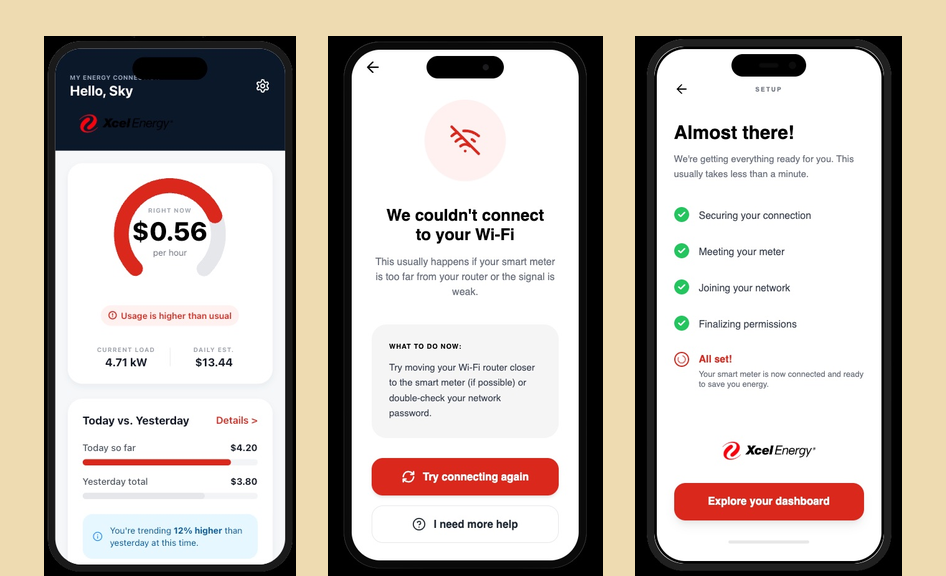
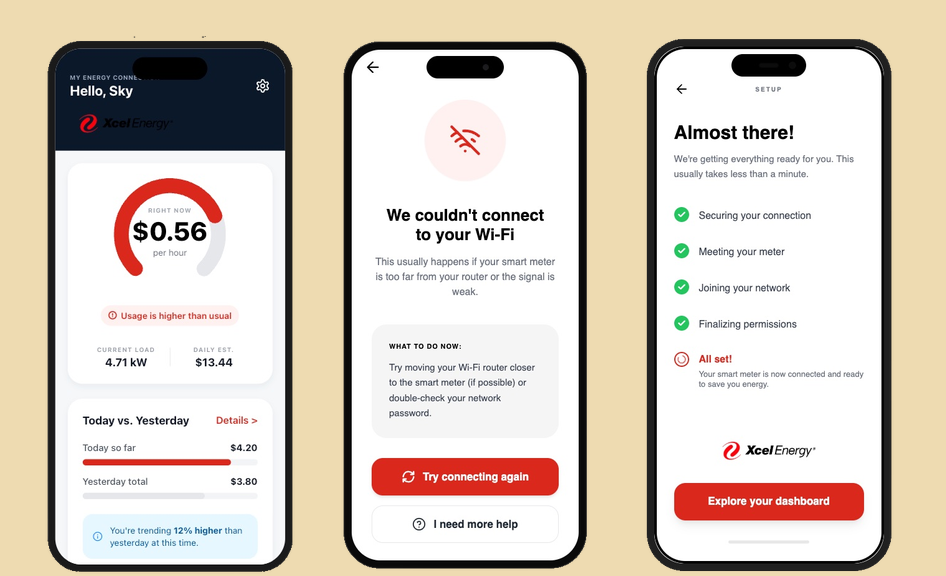
update xcel card hero image

Changed region(s): [[0.0307, 0.0625, 0.981, 1.0]]

diff --git a/xcel-energy.html b/xcel-energy.html
@@ -11,6 +11,8 @@
 <script defer src="/_vercel/insights/script.js"></script>
 <link rel="preconnect" href="https://api.fontshare.com" crossorigin>
 <link href="https://api.fontshare.com/v2/css?f[]=switzer@300&f[]=gambarino@400&display=swap" rel="stylesheet">
+<link rel="stylesheet" href="/editorial-theme.css">
+<link rel="stylesheet" href="/responsive.css">
 <style>
 *,*::before,*::after{box-sizing:border-box;margin:0;padding:0}
 :root{
@@ -83,6 +85,7 @@ body{line-height:1.6;overflow-x:hidden}
   border:none;
   border-radius:0;
   box-shadow:none;
+  background:var(--bg-page);
 }
 
 /* TWO-COLUMN ROWS */
@@ -124,6 +127,7 @@ h2.xcel-section-label{
   border:none;
   border-radius:0;
   box-shadow:none;
+  background:var(--bg-page);
 }
 .pain-eyebrow{
   font-size:0.65rem;font-weight:500;
@@ -167,6 +171,7 @@ h2.xcel-section-label{
   border:none;
   border-radius:0;
   box-shadow:none;
+  background:var(--bg-page);
 }
 .ba-heading{
   font-size:1.15rem;line-height:1.35;
@@ -258,8 +263,6 @@ footer{
   .ba-phones{grid-template-columns:1fr}
 }
 </style>
-<link rel="stylesheet" href="/editorial-theme.css">
-<link rel="stylesheet" href="/responsive.css">
 </head>
 <body>
   <a href="#main-content" class="skip-link">Skip to main content</a>
